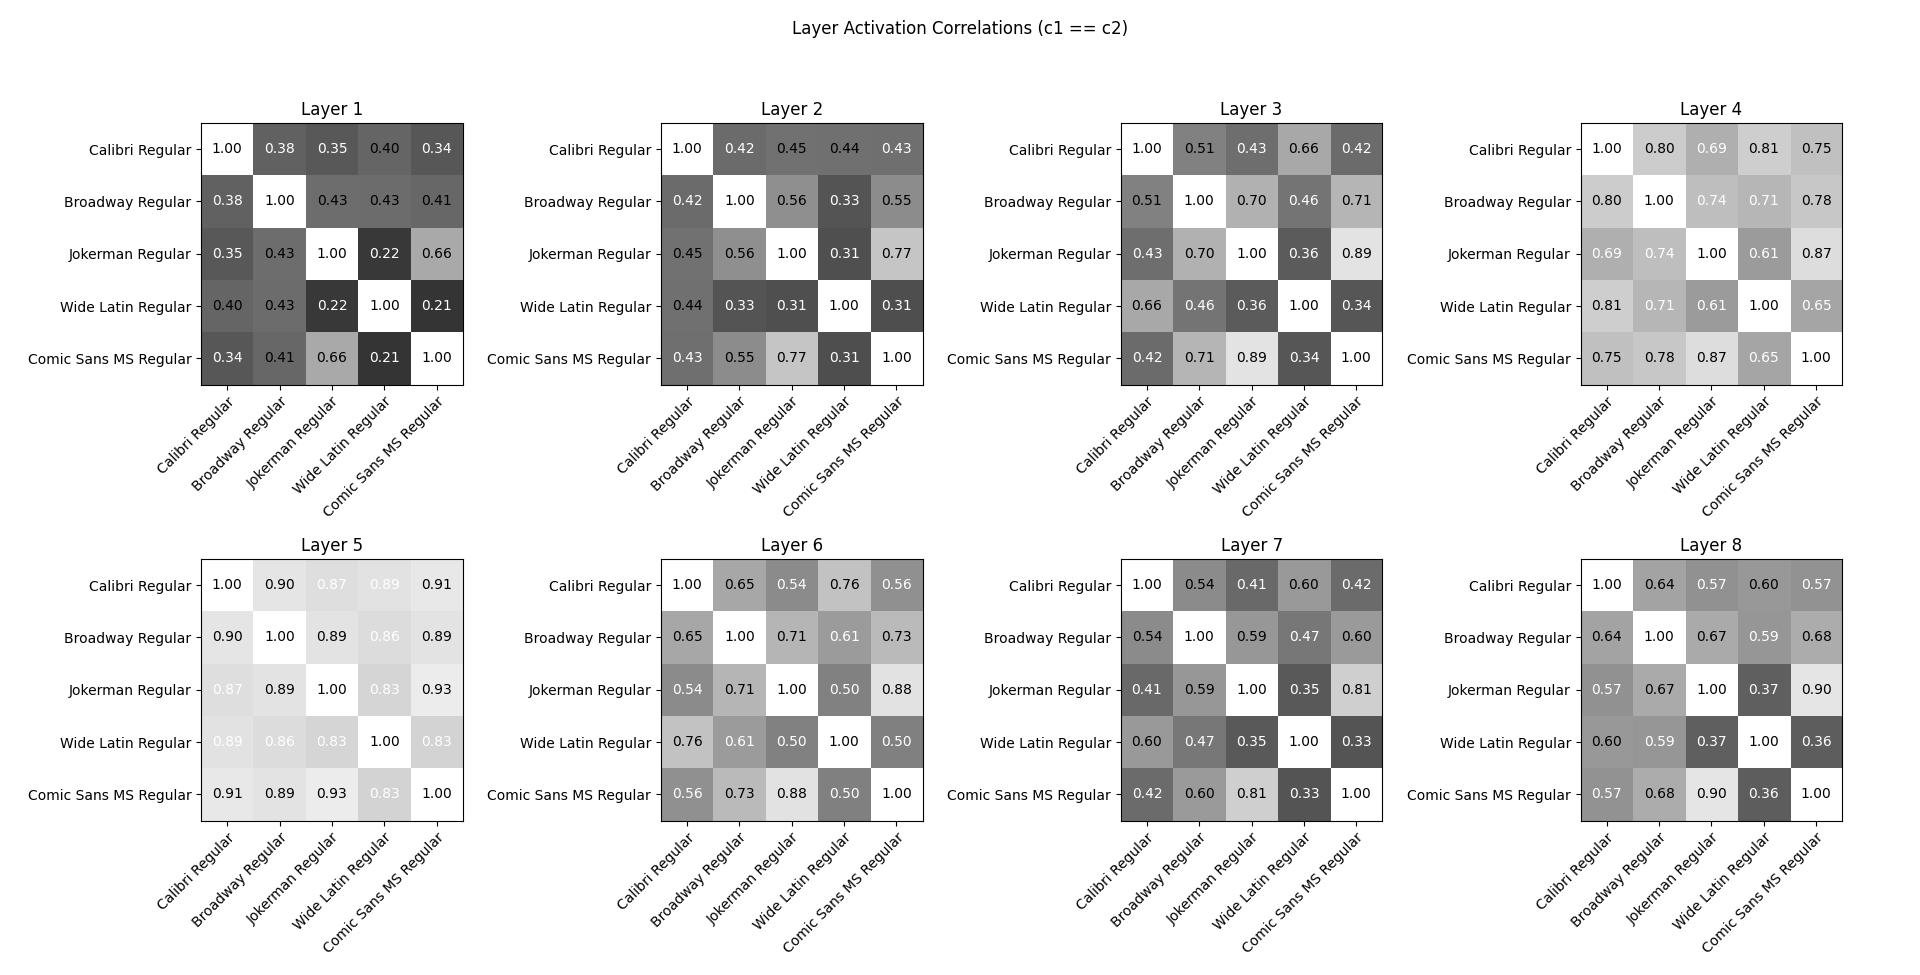
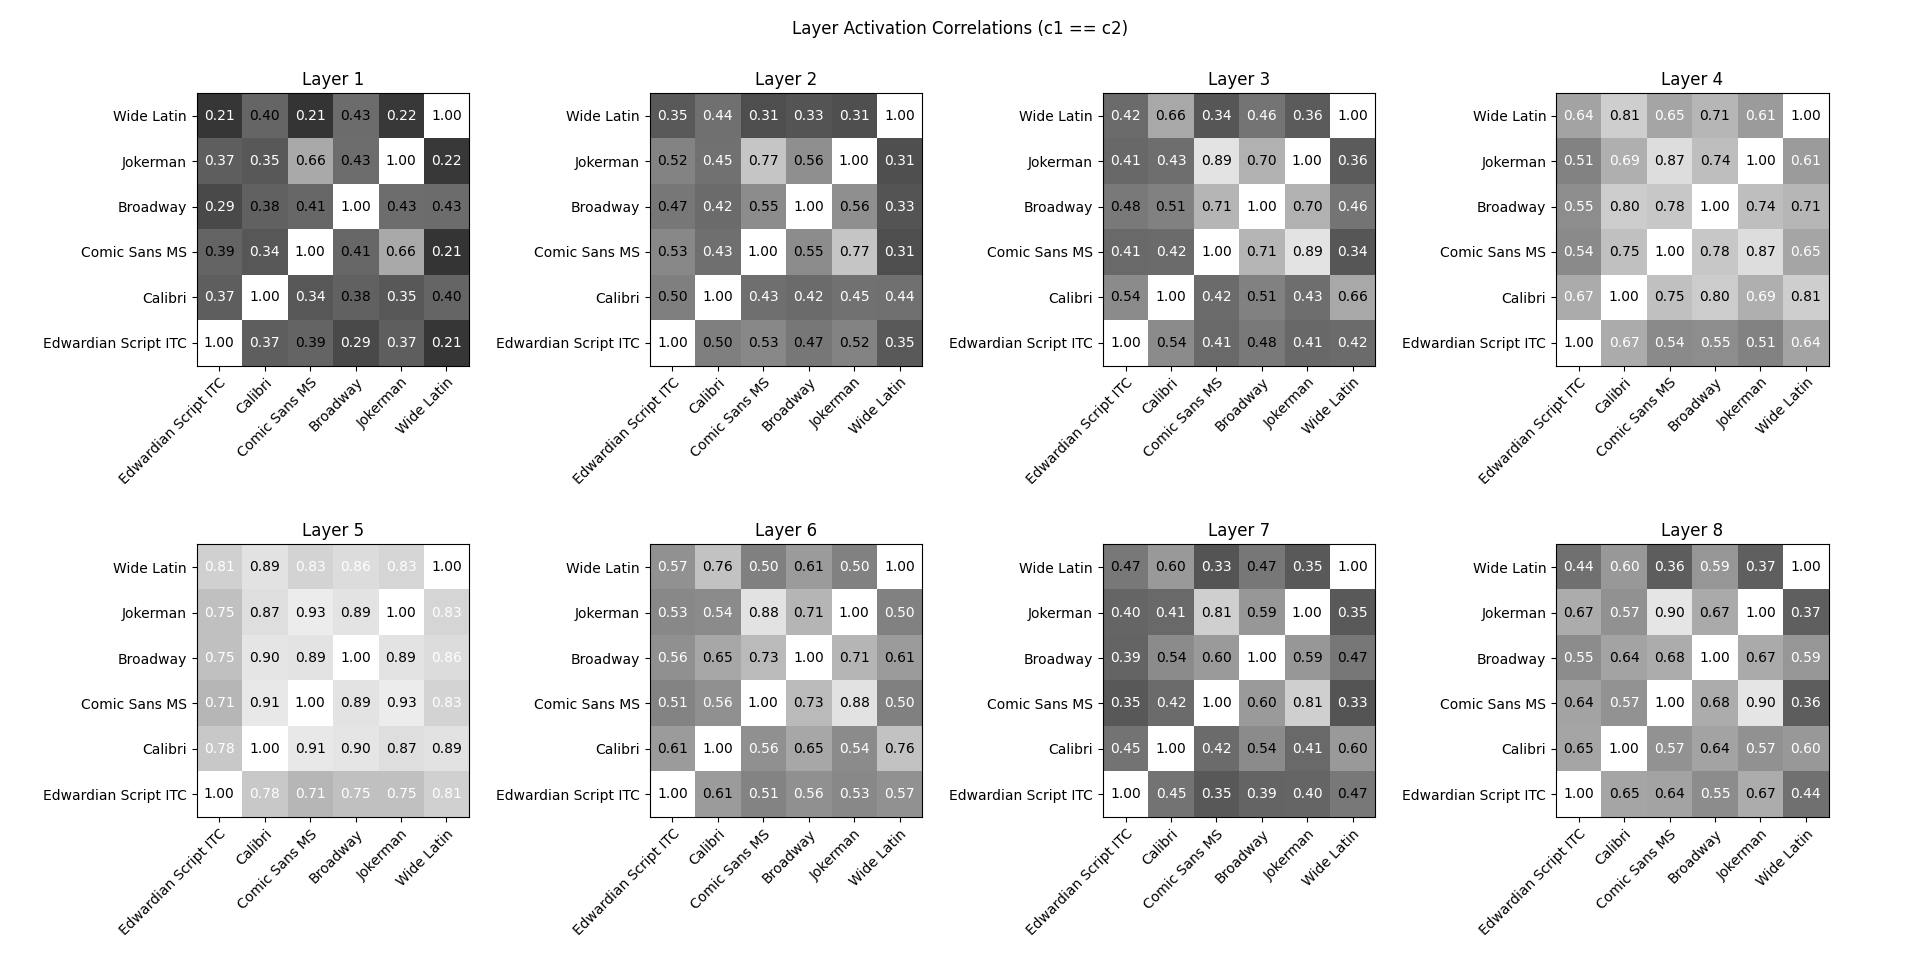
Improved activation similarity charts

Changed region(s): [[0.0, 0.0615, 0.9688, 0.9538]]

diff --git a/style/testing.py b/style/testing.py
@@ -112,7 +112,7 @@ if __name__ == "__main__":
         plt.show()
 
     # Getting all the activations for every font with every character in the latin alphabet
-    comparativeFonts = ["Calibri Regular", "Broadway Regular", "Jokerman Regular", "Wide Latin Regular", "Comic Sans MS Regular"]
+    comparativeFonts = ["Edwardian Script ITC", "Calibri", "Comic Sans MS", "Broadway", "Jokerman", "Wide Latin"]
     testCharacters = [chr(c) for c in latin]
     ablationActivations = []
     layers = None
@@ -120,9 +120,9 @@ if __name__ == "__main__":
         fontActivations = []
         for character in testCharacters:
             # Just plainly wasteful, but keeps things in order without sorting so idc
-            if np.sum(np.bitwise_and(dataset.names == font, dataset.letters == character)) == 0:
+            if np.sum(np.bitwise_and(dataset.names == f"{font} Regular", dataset.letters == character)) == 0:
                 print(font, character)
-            pair = dataset.pairs[np.bitwise_and(dataset.names == font, dataset.letters == character)]
+            pair = dataset.pairs[np.bitwise_and(dataset.names == f"{font} Regular", dataset.letters == character)]
             with torch.no_grad():
                 inputs = torch.tensor(pair[:, 0], dtype=torch.float32).squeeze().unsqueeze(0).unsqueeze(-1)
                 activations = model.activations(inputs)
@@ -154,13 +154,14 @@ if __name__ == "__main__":
         # Weighted sum (char 1 = char 2 has a weight of 0)
         correlation = np.sum(observe, axis=(2, 3))
         correlation = correlation / np.sum(~mask, axis=(2, 3))
+        correlation = np.flip(correlation, axis=0)
 
         ax = plt.subplot(height, width, layer + 1)
         ax.set_title(f"Layer {layer + 1}")
         ax.imshow(correlation, cmap="binary_r", vmin=0, vmax=1)
         # ax.colorbar()
         ax.set_xticks(range(len(comparativeFonts)), comparativeFonts, rotation=45, ha="right", rotation_mode="anchor")
-        ax.set_yticks(range(len(comparativeFonts)), comparativeFonts)
+        ax.set_yticks(range(len(comparativeFonts)), comparativeFonts[::-1])
 
         for i in range(correlation.shape[0]):
             for j in range(correlation.shape[0]):
@@ -179,13 +180,14 @@ if __name__ == "__main__":
         
         correlation = np.sum(observe, axis=(2, 3))
         correlation = correlation / np.sum(mask, axis=(2, 3))
+        correlation = np.flip(correlation, axis=0)
 
         ax = plt.subplot(height, width, layer + 1)
         ax.set_title(f"Layer {layer + 1}")
         ax.imshow(correlation, cmap="binary_r", vmin=0, vmax=1)
         # ax.colorbar()
         ax.set_xticks(range(len(comparativeFonts)), comparativeFonts, rotation=45, ha="right", rotation_mode="anchor")
-        ax.set_yticks(range(len(comparativeFonts)), comparativeFonts)
+        ax.set_yticks(range(len(comparativeFonts)), comparativeFonts[::-1])
 
         for i in range(correlation.shape[0]):
             for j in range(correlation.shape[0]):
